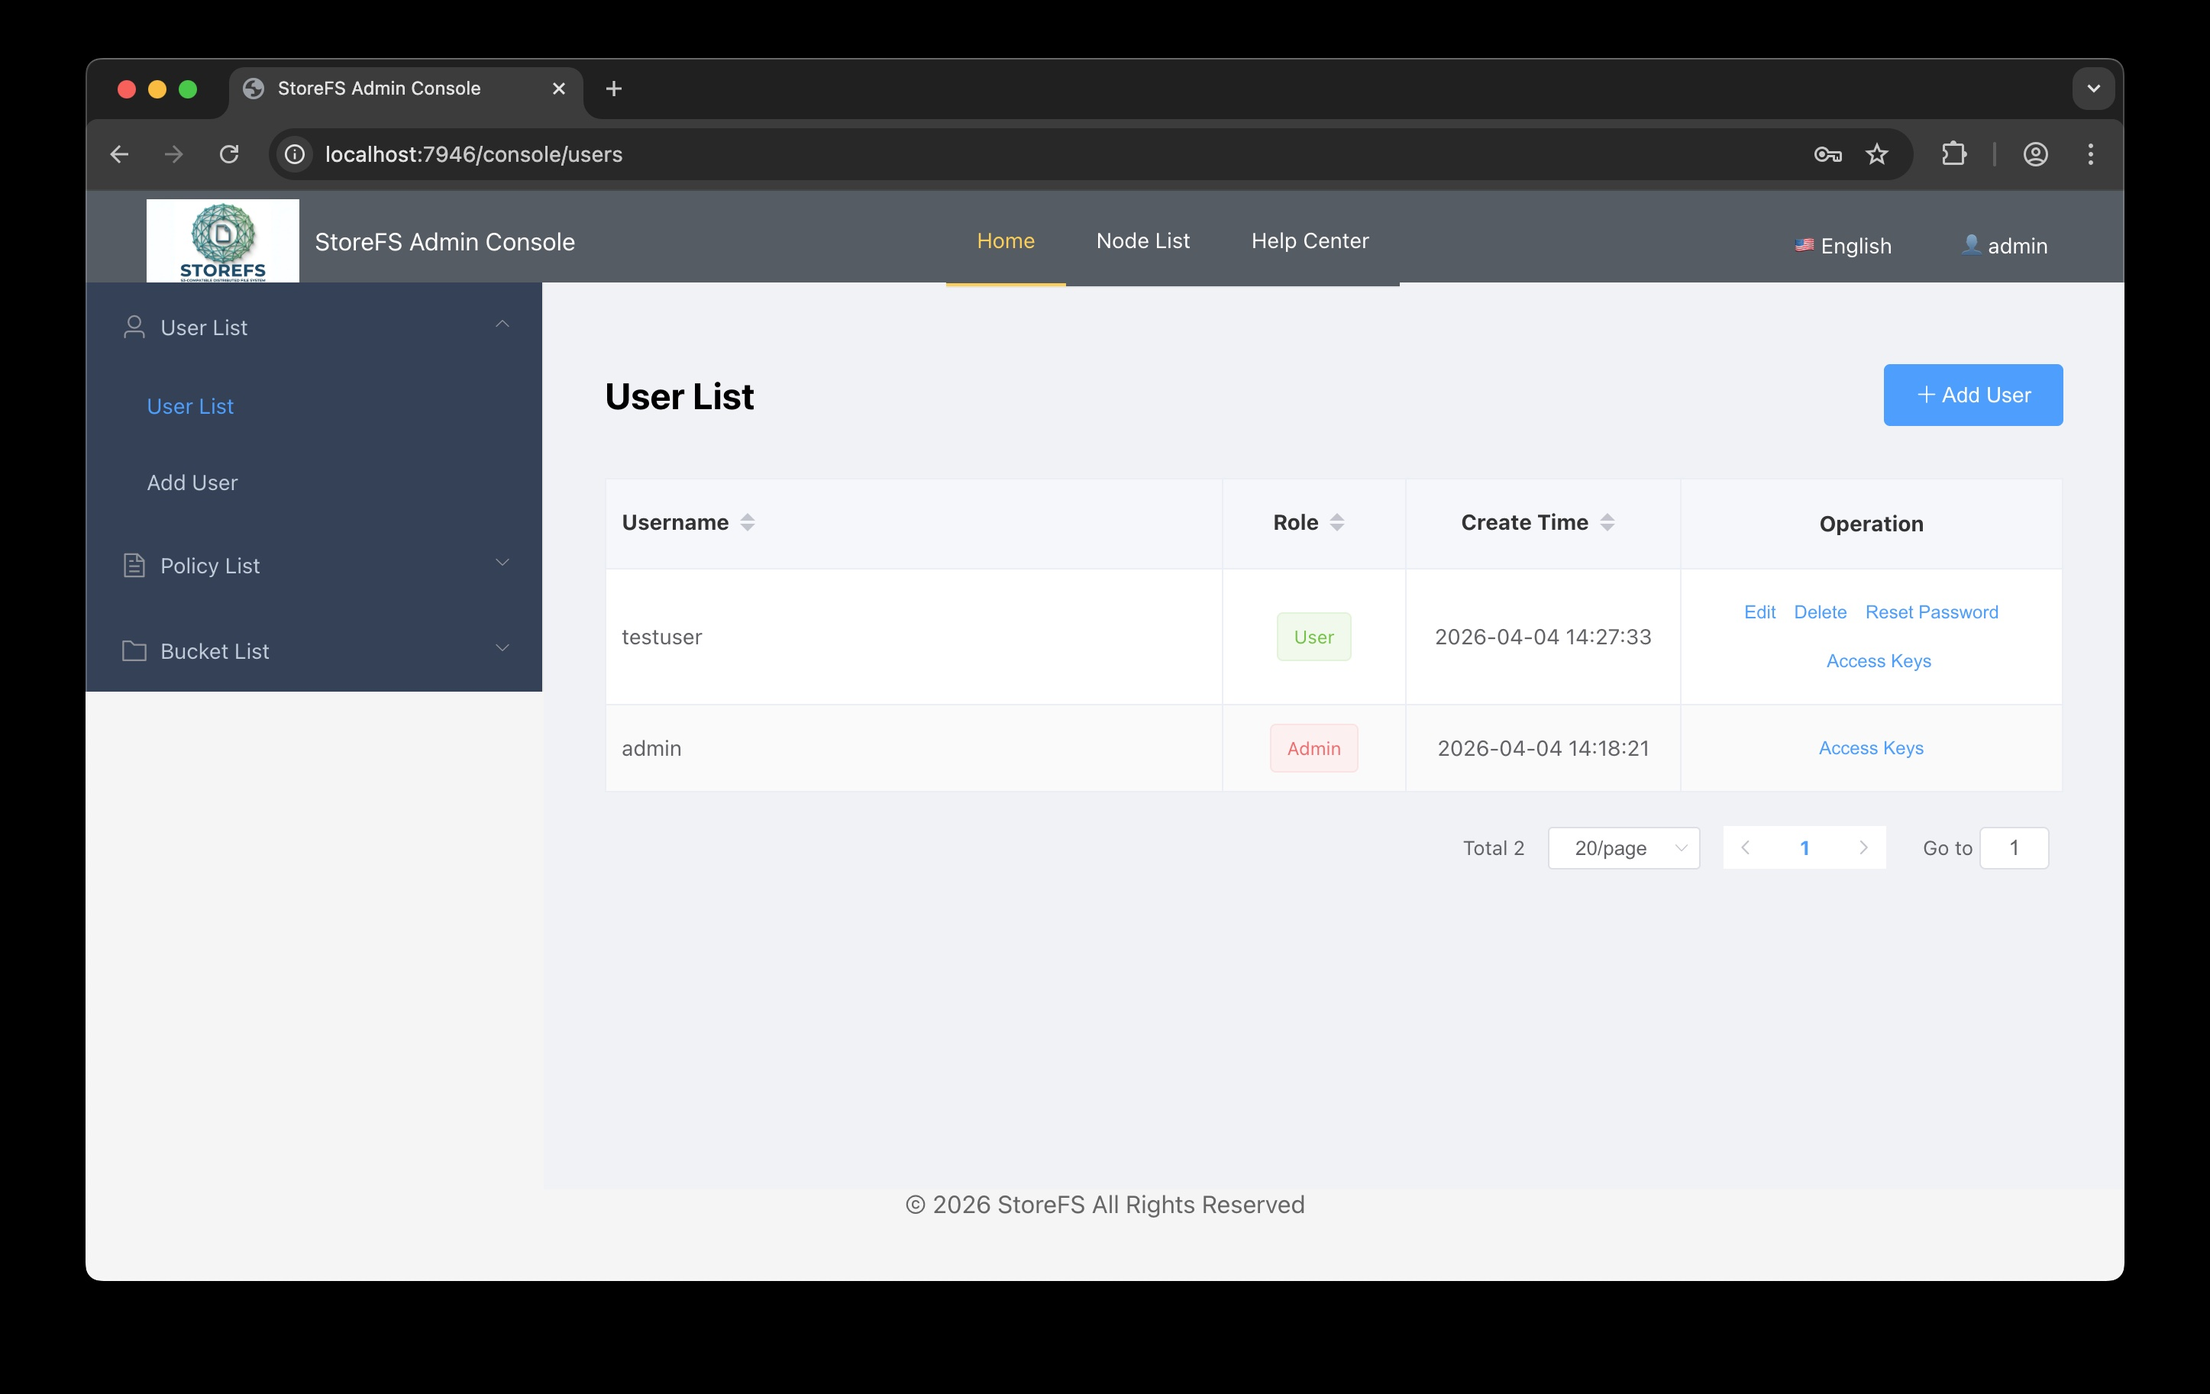
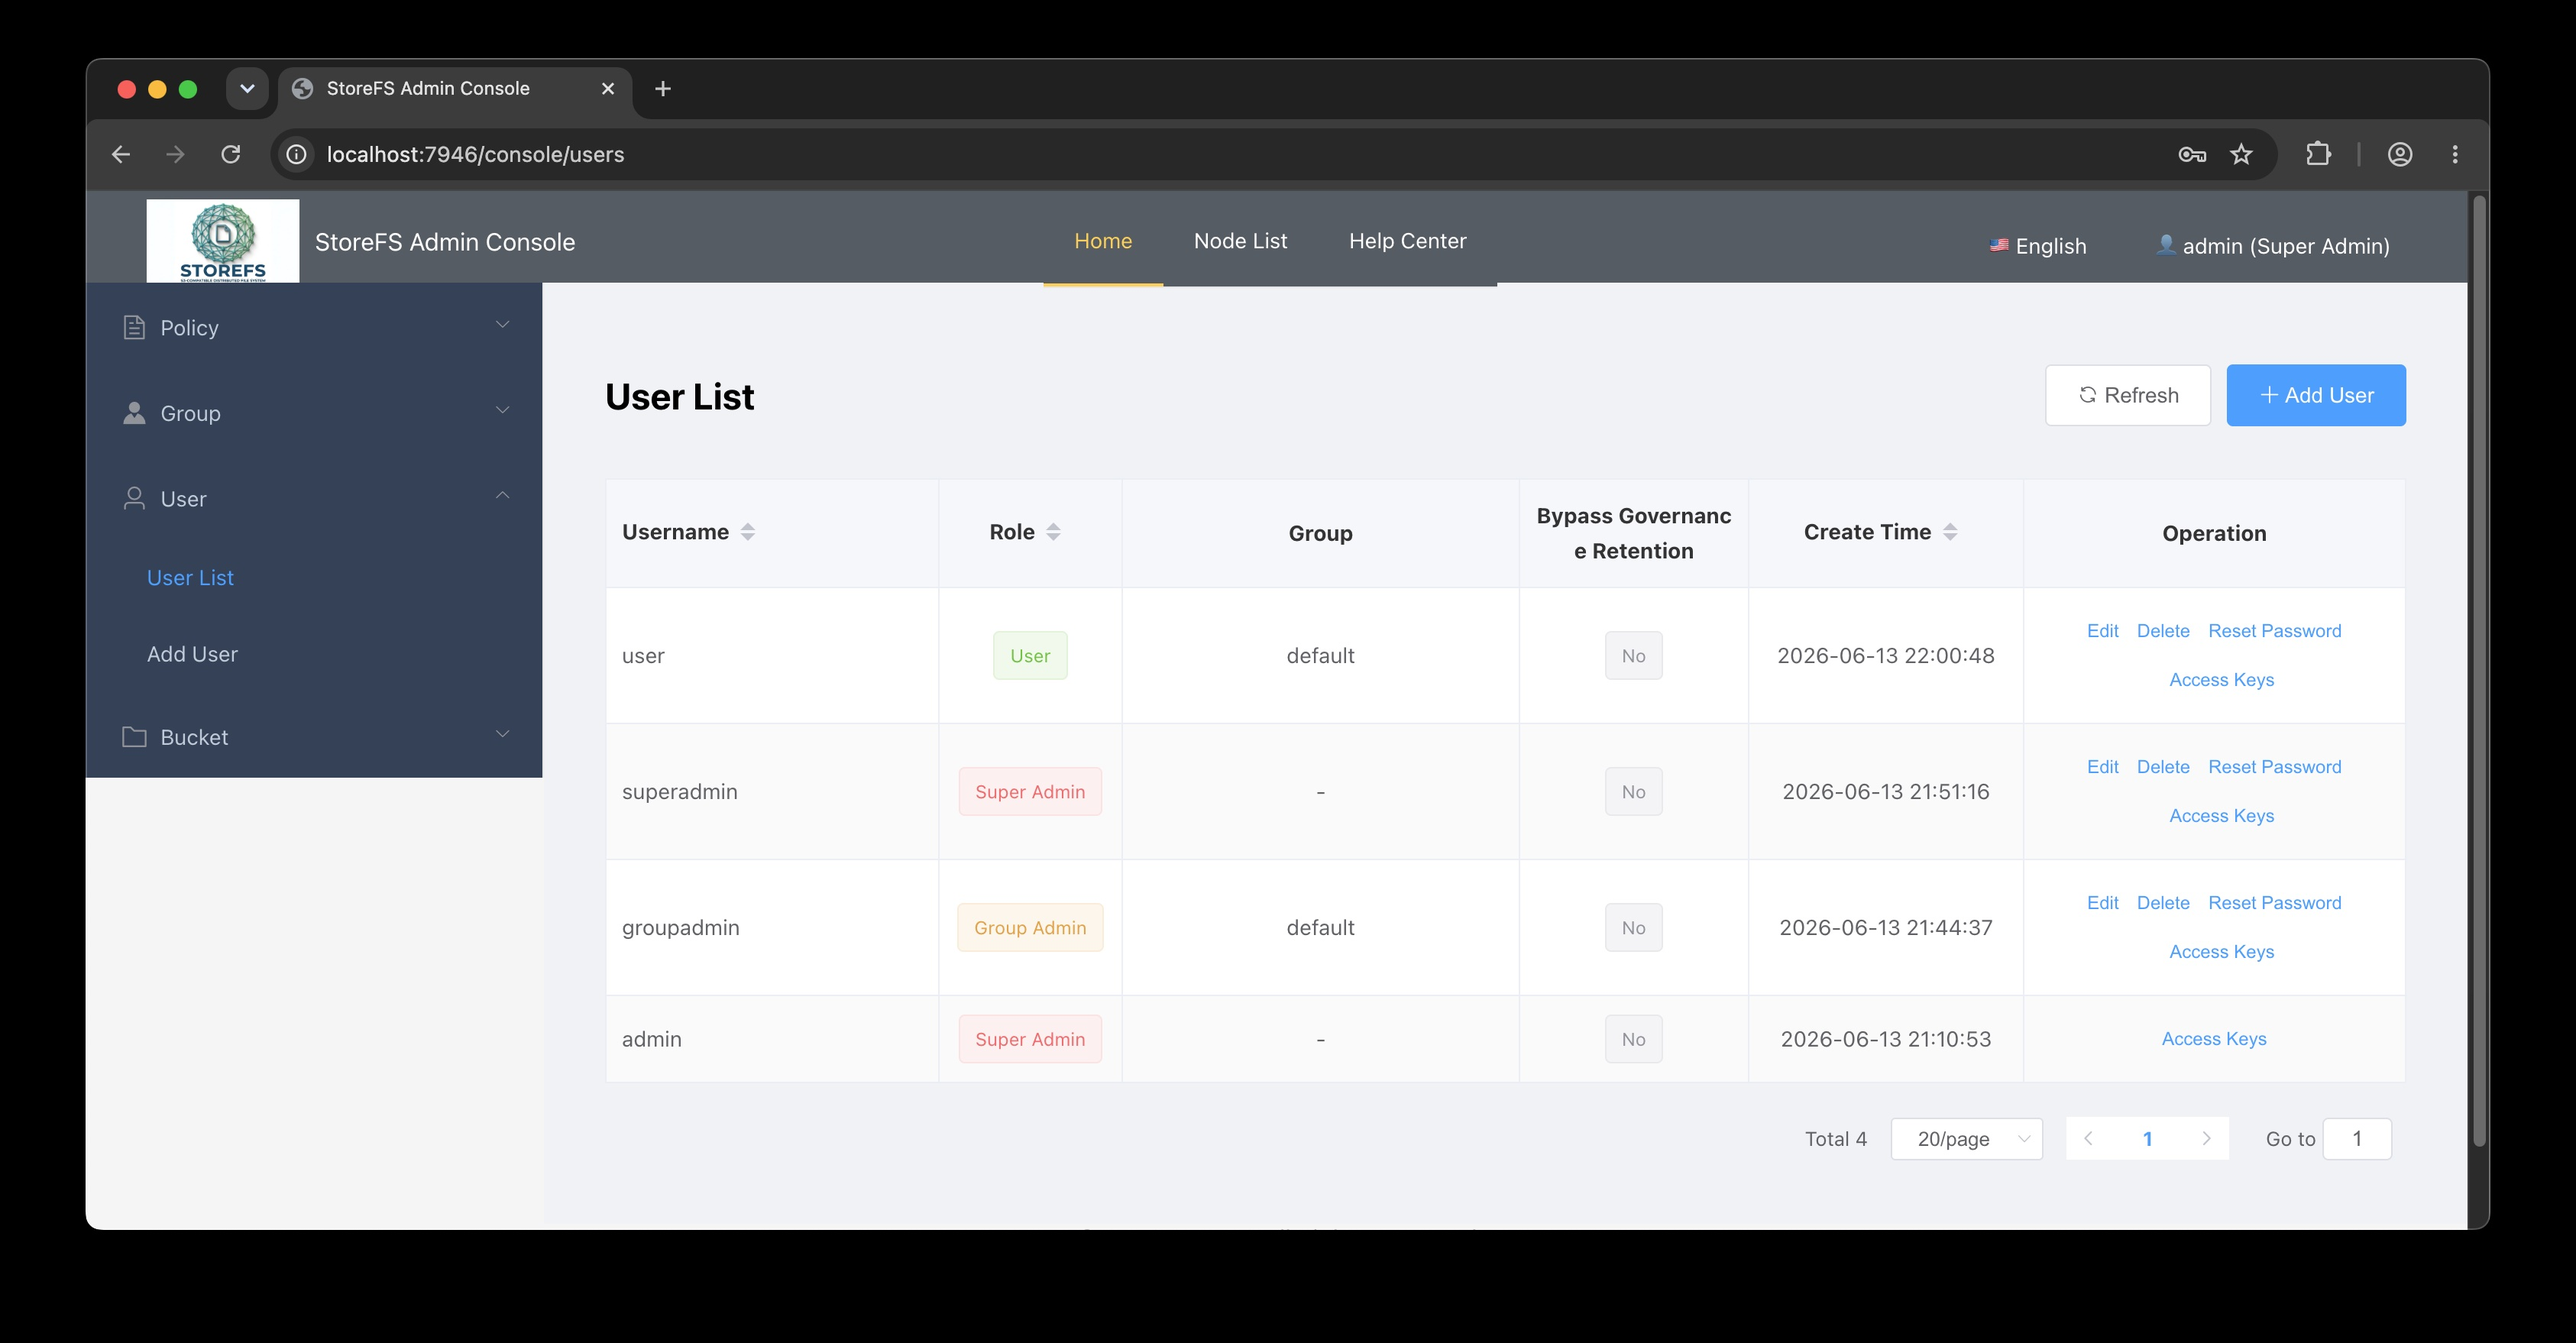
Introduce Group for user manamgement

diff --git a/README.md b/README.md
@@ -10,6 +10,7 @@
 - [Overview](#overview)
 - [Installation and Deployment](#installation-and-deployment)
 - [Management Console](#management-console)
+- [User Roles and Groups](#user-roles-and-groups)
 - [S3 API](#s3-api)
 - [Admin API](#admin-api)
 - [s3file CLI](#s3file-cli)
@@ -38,7 +39,11 @@ This project uses Claude Code to automatically generate all codes and documentat
 
 ### Core Concepts
 
-- **User**: System user with a unique identity. Each user can have different roles, which determine the user's permission scope. Users authenticate using Access Key (AK) and Secret Key (SK).
+- **User**: System user with a unique identity. Each user has a role (`user`, `group_admin`, or `super_admin`) and usually belongs to a group. Users authenticate using Access Key (AK) and Secret Key (SK).
+
+- **Role**: Determines the user's management scope and storage access behavior. Normal users manage their own resources, group administrators manage users and resources in their group, and super administrators manage global system configuration but do not directly access S3 object data.
+
+- **Group**: Organizes users for delegated administration and shared policy defaults. A group can define a default policy that is applied when creating buckets without explicitly selecting a policy.
 
 - **Policy**: Defines a user's access permissions to buckets and objects. Policies can precisely control user operations such as read, write, list bucket contents, delete objects, etc.
 
@@ -218,12 +223,13 @@ StoreFS provides a Vue.js-based web management console located in the `web` dire
 Visit `http://localhost:7946/console` with the default administrator account:
 - Username: admin
 - Password: admin123
+- Role: `super_admin` (super admin)
 
 ### Features
 
 | Function Module | Description | Screenshot |
 |----------------|-------------|---------------------|
-| User Management | Create/edit/delete users, manage access keys | [Login](docs/pics/login.jpg), [UserList](docs/pics/user.jpg) |
+| User Management | Create/edit/delete users, manage access keys | [Login](docs/pics/login.jpg), [UserList](docs/pics/user.jpg), [GroupList](docs/pics/grouplist.jpg) |
 | Policy Management | Create/edit/delete policies, configure permission rules | [PolicyList](docs/pics/policy.jpg) |
 | Bucket Management | Create/edit/delete buckets, configure access policies | [BucketList](docs/pics/bucket.jpg) |
 | | Create/edit/delete buckets | [CreateVersionBucket](docs/pics/versionBucket.jpg) |
@@ -232,6 +238,22 @@ Visit `http://localhost:7946/console` with the default administrator account:
 | Multipart Management | Complete/abort | [MultipartList](docs/pics/multipart.jpg), [MultipartInfo](docs/pics/partdetail.jpg), [MultipartFragmentInfo](docs/pics/partfragment.jpg) |
 | Node Management | View node status, add/remove nodes | [NodeList](docs/pics/node.jpg) |
 | Internationalization | Switch languages | [Internationalization](docs/pics/internationalization.jpg) |
+
+## User Roles and Groups
+
+### Overview
+
+StoreFS uses role-based access control together with user groups. A user belongs to a group and receives one of three roles: `user`, `group_admin`, or `super_admin`. Groups make it possible to delegate administration by team or tenant, and each group can configure a default policy for buckets created by users in that group.
+
+### Role Permissions
+
+| Role | Management Console / Admin API Permissions | S3 API and Object Data Permissions | Group Scope |
+|------|-------------------------------------------|------------------------------------|-------------|
+| `user` | Manage own buckets, objects, profile, and access keys | Can access buckets owned by the user according to bucket policy | Own account and own buckets |
+| `group_admin` | Manage users, buckets, objects, and group settings within the same group; can assign `user` and `group_admin` roles in the group | Can access buckets owned by users in the same group according to bucket policy | Current group only |
+| `super_admin` | Manage all groups, users, policies, buckets, nodes, and global system resources; can create or assign `super_admin` users | Cannot directly access S3 API buckets or read/write object data; should delegate data operations to regular or group admin users | Global system scope |
+
+> Note: Bucket policies still control the detailed S3 actions, such as read, write, list, and delete. Roles define the management boundary and the bucket ownership scope that a user can operate on.
 
 ## S3 API
 
@@ -336,7 +358,7 @@ aws s3 cp s3://mybucket/localfile.txt . --endpoint-url http://127.0.0.1:8901 --p
 ### 3. Use Management Console
 
 1. Visit `http://localhost:7946/console`
-2. Log in with the default administrator account (username: admin, password: admin123)
+2. Log in with the default administrator account (username: admin, password: admin123, role: `super_admin`)
 3. Create users, policies, and buckets
 4. Manage your storage resources
 

diff --git a/docs/s3file.md b/docs/s3file.md
@@ -216,7 +216,7 @@ During `ls` in paginated mode:
 ```bash
 $ s3file
 ╔══════════════════════════════════════════════════════════════════════════╗
-║                        S3 File System CLI v0.3.0                         ║
+║                        S3 File System CLI v0.3.2                         ║
 ║      Supports StoreFS, MinIO, AWS S3, and all S3-compatible services     ║
 ╚══════════════════════════════════════════════════════════════════════════╝
 Type 'help' for available commands

diff --git a/docs/s3file_cn.md b/docs/s3file_cn.md
@@ -216,7 +216,7 @@ connect --interactive
 ```bash
 $ s3file
 ╔══════════════════════════════════════════════════════════════════════════╗
-║                        S3 File System CLI v0.3.0                         ║
+║                        S3 File System CLI v0.3.2                         ║
 ║      Supports StoreFS, MinIO, AWS S3, and all S3-compatible services     ║
 ╚══════════════════════════════════════════════════════════════════════════╝
 Type 'help' for available commands
